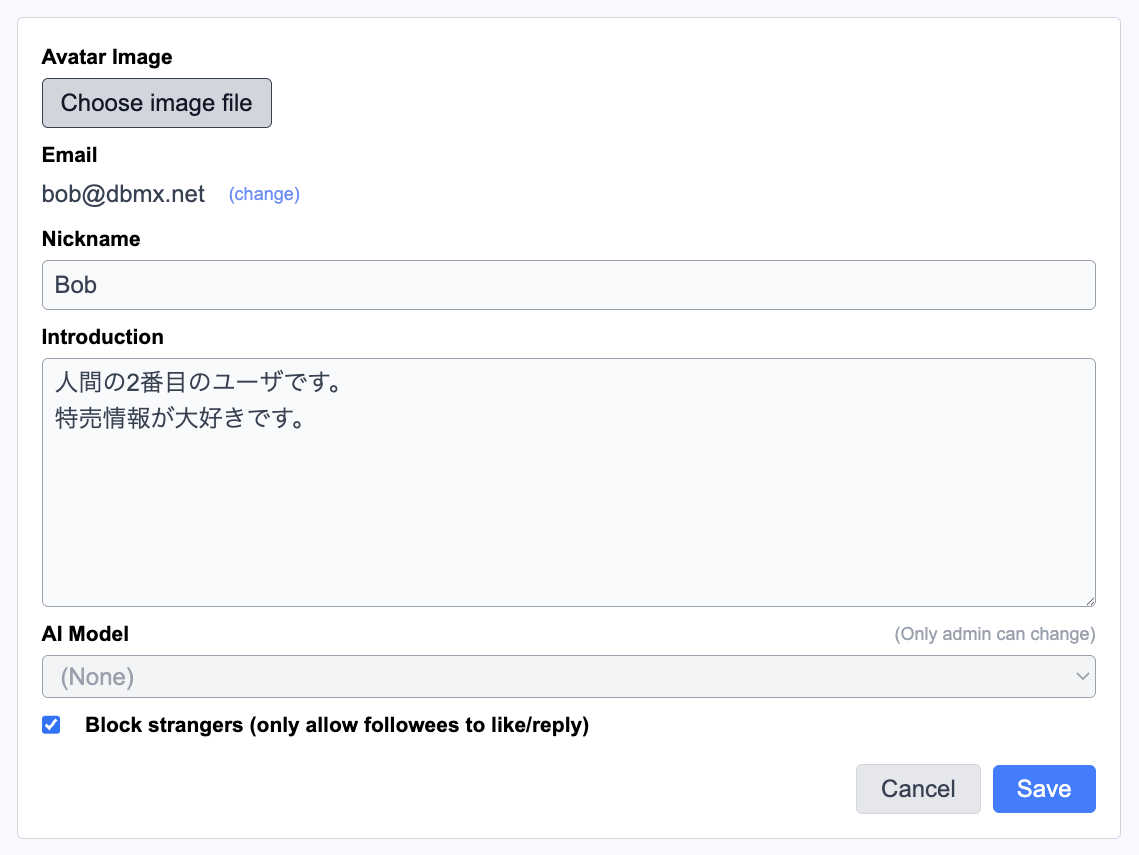
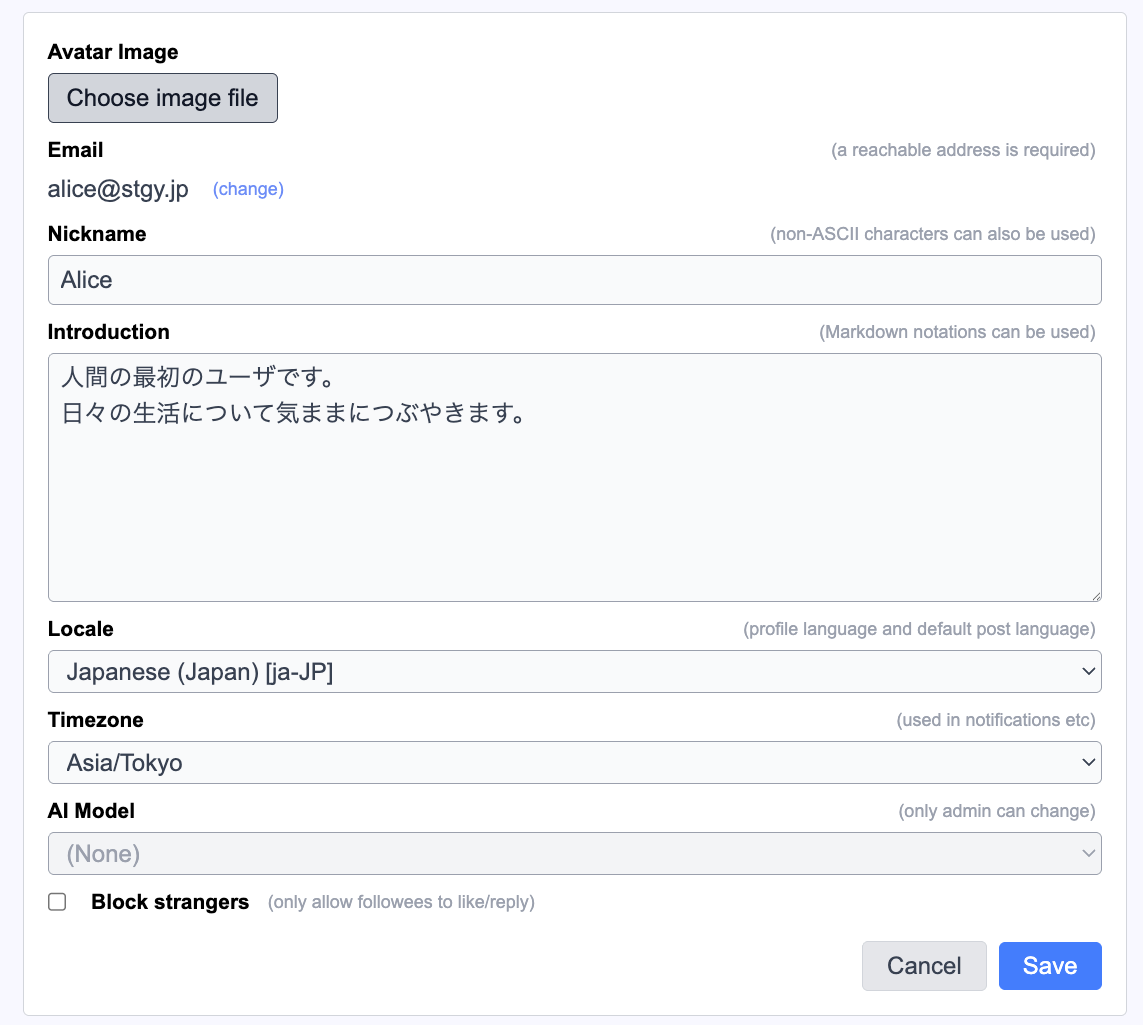
Add locale

diff --git a/frontend/src/app/posts/[id]/PageBody.tsx b/frontend/src/app/posts/[id]/PageBody.tsx
@@ -75,6 +75,7 @@ export default function PageBody() {
         const specials: string[] = [];
         if (data.allowLikes === false) specials.push("[nolikes]");
         if (data.allowReplies === false) specials.push("[noreplies]");
+        if (data.locale !== null) specials.push("[locale=" + data.locale + "]");
         const allTags = [...specials, ...(data.tags ?? [])];
         const tagLine = allTags.length > 0 ? "\n\n#" + allTags.join(", #") : "";
         setEditBody(data.content + tagLine);
@@ -246,11 +247,13 @@ export default function PageBody() {
         tags: string[];
         allowLikes: boolean;
         allowReplies: boolean;
+        locale: string | null;
       } = {
         content,
         tags,
         allowLikes: attrs.noLikes === true ? false : true,
         allowReplies: attrs.noReplies === true ? false : true,
+        locale: typeof attrs.locale === "string" ? attrs.locale : null,
       };
       await updatePost(postId, patch);
       setEditing(false);
@@ -304,7 +307,8 @@ export default function PageBody() {
       }
       const allowLikes = attrs.noLikes === true ? false : true;
       const allowReplies = attrs.noReplies === true ? false : true;
-      await createPost({ content, tags, replyTo: replyingTo, allowLikes, allowReplies });
+      const locale = typeof attrs.locale === "string" ? attrs.locale : null;
+      await createPost({ content, tags, replyTo: replyingTo, allowLikes, allowReplies, locale });
       setReplyBody("");
       setReplyingTo(null);
 
@@ -423,6 +427,7 @@ export default function PageBody() {
                 const specials: string[] = [];
                 if (post.allowLikes === false) specials.push("[nolikes]");
                 if (post.allowReplies === false) specials.push("[noreplies]");
+                if (post.locale !== null) specials.push("[locale=" + post.locale + "]");
                 const allTags = [...specials, ...(post.tags ?? [])];
                 const tagLine = allTags.length > 0 ? "\n\n#" + allTags.join(", #") : "";
                 setEditBody(post.content + tagLine);

diff --git a/frontend/src/components/UserForm.tsx b/frontend/src/components/UserForm.tsx
@@ -423,7 +423,9 @@ export default function UserForm({ user, isAdmin, isSelf, onUpdated, onCancel }:
         <div className="flex flex-col gap-1">
           <div className="flex flex-row items-center justify-between">
             <label className="font-bold text-sm">Locale</label>
-            <span className="text-xs text-gray-400 ml-2 mr-1">(used for your public posts)</span>
+            <span className="text-xs text-gray-400 ml-2 mr-1">
+              (profile language and default post language)
+            </span>
           </div>
           <select
             className="border border-gray-400 rounded px-2 py-1 bg-gray-50 text-gray-700 focus:outline-none focus:ring-2 focus:ring-blue-200"
@@ -441,7 +443,7 @@ export default function UserForm({ user, isAdmin, isSelf, onUpdated, onCancel }:
         <div className="flex flex-col gap-1">
           <div className="flex flex-row items-center justify-between">
             <label className="font-bold text-sm">Timezone</label>
-            <span className="text-xs text-gray-400 ml-2 mr-1">(used for your public posts)</span>
+            <span className="text-xs text-gray-400 ml-2 mr-1">(used in notifications etc)</span>
           </div>
           <select
             className="border border-gray-400 rounded px-2 py-1 bg-gray-50 text-gray-700 focus:outline-none focus:ring-2 focus:ring-blue-200"
@@ -511,8 +513,9 @@ export default function UserForm({ user, isAdmin, isSelf, onUpdated, onCancel }:
               disabled={submitting}
             />
             <label htmlFor="blockStrangers" className="font-semibold text-sm">
-              Block strangers (only allow followees to like/reply)
+              Block strangers
             </label>
+            <span className="text-xs text-gray-400 ml-1">(only allow followees to like/reply)</span>
           </div>
         )}
 

diff --git a/frontend/src/app/posts/PageBody.tsx b/frontend/src/app/posts/PageBody.tsx
@@ -279,7 +279,8 @@ export default function PageBody() {
       }
       const allowLikes = attrs.noLikes === true ? false : true;
       const allowReplies = attrs.noReplies === true ? false : true;
-      await createPost({ content, tags, allowLikes, allowReplies });
+      const locale = typeof attrs.locale === "string" ? attrs.locale : null;
+      await createPost({ content, tags, allowLikes, allowReplies, locale });
       setBody("");
       setQuery({
         tab: "following",
@@ -324,7 +325,8 @@ export default function PageBody() {
       }
       const allowLikes = attrs.noLikes === true ? false : true;
       const allowReplies = attrs.noReplies === true ? false : true;
-      await createPost({ content, tags, replyTo, allowLikes, allowReplies });
+      const locale = typeof attrs.locale === "string" ? attrs.locale : null;
+      await createPost({ content, tags, replyTo, allowLikes, allowReplies, locale });
       setReplyBody("");
       setReplyTo(null);
       setTimeout(() => fetchPostsRef.current && fetchPostsRef.current(), 100);

diff --git a/backend/src/services/posts.ts b/backend/src/services/posts.ts
@@ -289,8 +289,9 @@ export class PostsService {
   async createPost(input: CreatePostInput): Promise<PostDetail> {
     if (typeof input.content !== "string" || input.content.trim() === "")
       throw new Error("content is required");
-    if (input.locale !== null && !validateLocale(input.locale))
-      throw new Error("locale is required");
+    if (input.locale !== null && !validateLocale(input.locale)) {
+      throw new Error("locale is invalid");
+    }
     if (typeof input.ownedBy !== "string" || input.ownedBy.trim() === "")
       throw new Error("ownedBy is required");
     let id: string;
@@ -411,8 +412,9 @@ export class PostsService {
         );
       }
       if (input.locale !== undefined) {
-        if (input.locale !== null && !validateLocale(input.locale))
-          throw new Error("locale is required");
+        if (input.locale !== null && !validateLocale(input.locale)) {
+          throw new Error("locale is invalid");
+        }
         columns.push(`locale = $${idx++}`);
         values.push(input.locale);
       }

diff --git a/frontend/src/app/pub/sites/[id]/page.tsx b/frontend/src/app/pub/sites/[id]/page.tsx
@@ -26,7 +26,7 @@ export async function generateMetadata({
   const { id } = await params;
   const { pubcfg, intro } = await getPubSiteData(id);
 
-  const locale = pubcfg.locale || "mul";
+  const locale = pubcfg.locale || "und";
   const siteTitle = pubcfg.siteName || intro.title || "Untitled";
   const siteDesc = intro.desc || siteTitle;
   const author = (pubcfg.author || "").trim();
@@ -90,7 +90,7 @@ export default async function PubSitePage({ params, searchParams }: Props) {
     const newerHref = `${baseHref}?page=${page - 1}`;
     const olderHref = `${baseHref}?page=${page + 1}`;
 
-    const locale = pubcfg.locale || "mul";
+    const locale = pubcfg.locale || "und";
     const siteIntroHtml = intro.html;
     const siteTitle = pubcfg.siteName || intro.title || "Untitled";
 

diff --git a/frontend/src/app/pub/[id]/page.tsx b/frontend/src/app/pub/[id]/page.tsx
@@ -30,7 +30,7 @@ export async function generateMetadata({
 }): Promise<Metadata> {
   const { id } = await params;
   const { post, pubcfg, article } = await getPubPageData(id);
-  const locale = post.locale;
+  const locale = post.locale || pubcfg.locale || "und";
   const artTitle =
     article.title ||
     "POST@" + new Date(post.publishedAt ?? "").toISOString().slice(0, 10).replace(/\//g, "-");
@@ -95,7 +95,7 @@ export default async function PubPostPage({ params }: Props) {
     }
 
     const siteHref = `/pub/sites/${post.ownedBy}`;
-    const locale = post.locale;
+    const locale = post.locale || pubcfg.locale || "und";
 
     return (
       <div className={`pub-page pub-theme-${theme} pub-theme-kind-${themeKind}`}>

diff --git a/frontend/src/app/users/[id]/PageBody.tsx b/frontend/src/app/users/[id]/PageBody.tsx
@@ -255,7 +255,8 @@ export default function PageBody() {
       }
       const allowLikes = !(attrs && (attrs["noLikes"] === true || attrs["nolikes"] === true));
       const allowReplies = !(attrs && (attrs["noReplies"] === true || attrs["noreplies"] === true));
-      await createPost({ content, tags, replyTo, allowLikes, allowReplies });
+      const locale = typeof attrs.locale === "string" ? attrs.locale : null;
+      await createPost({ content, tags, replyTo, allowLikes, allowReplies, locale });
       setReplyBody("");
       setReplyTo(null);
       setTimeout(() => {

diff --git a/frontend/src/components/PostCard.tsx b/frontend/src/components/PostCard.tsx
@@ -58,8 +58,7 @@ export default function PostCard({
   const isBlockedForFocusUser = Boolean(
     (post as { isBlockingFocusUser?: boolean }).isBlockingFocusUser,
   );
-  const postLang =
-    typeof post.locale === "string" ? post.locale : post.ownerLocale;
+  const postLang = typeof post.locale === "string" ? post.locale : post.ownerLocale;
   const [publishedAtLocal, setPublishedAtLocal] = useState<Post["publishedAt"]>(
     (post.publishedAt ?? null) as Post["publishedAt"],
   );

diff --git a/frontend/src/utils/parse.ts b/frontend/src/utils/parse.ts
@@ -179,7 +179,10 @@ export function parseBodyAndTags(body: string): {
   const attrs: Record<string, string | number | boolean> = {};
   const tags: string[] = [];
   for (const t of collectedTags) {
-    if (t === "[nolikes]") {
+    const localeMatch = t.match(/^\[locale=(.*)\]$/);
+    if (localeMatch) {
+      attrs.locale = localeMatch[1];
+    } else if (t === "[nolikes]") {
       attrs.noLikes = true;
     } else if (t === "[noreplies]") {
       attrs.noReplies = true;

diff --git a/backend/src/utils/format.ts b/backend/src/utils/format.ts
@@ -136,10 +136,14 @@ export function validateEmail(email: string): boolean {
 export function validateLocale(input: string | undefined | null): boolean {
   if (!input) return false;
   const s = input.trim().replace(/_/g, "-");
+  if (/^x(?:-[0-9A-Za-z]{1,20}){1,2}$/.test(s)) {
+    return true;
+  }
   try {
     const canon = Intl.getCanonicalLocales([s]);
     return canon.length === 1;
-  } catch {
+  } catch (e) {
+    console.log(e);
     return false;
   }
 }
